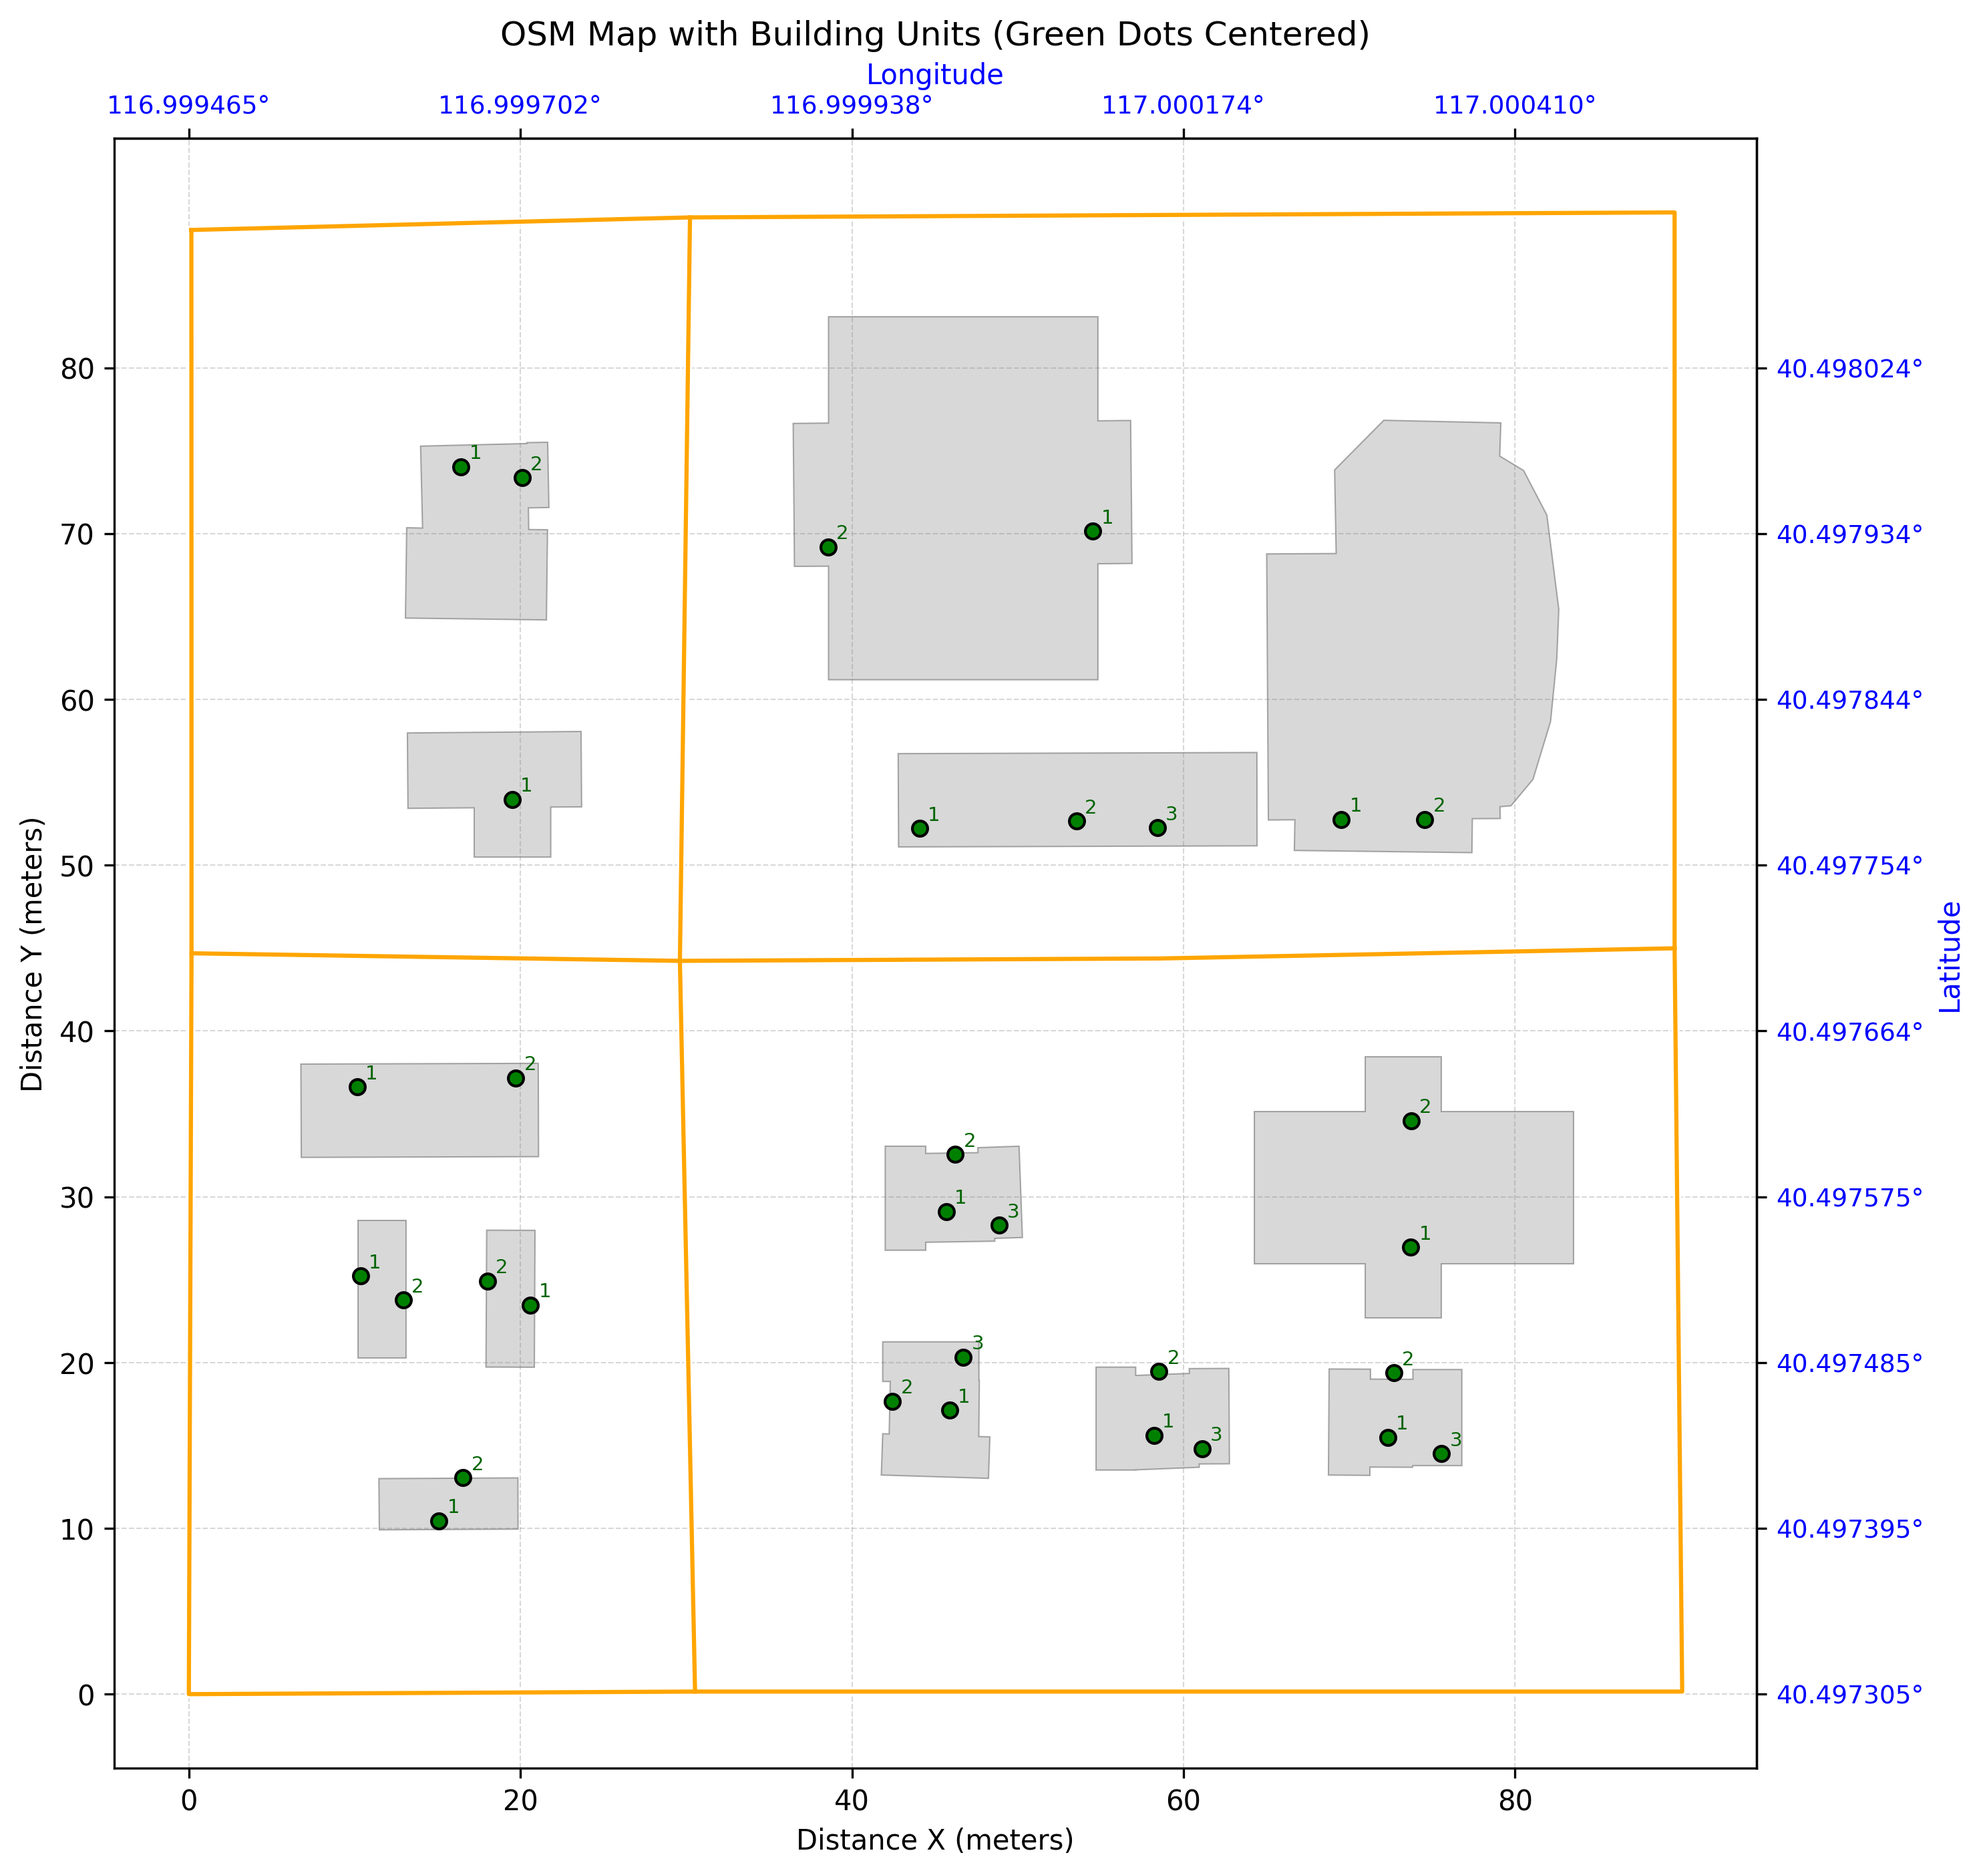
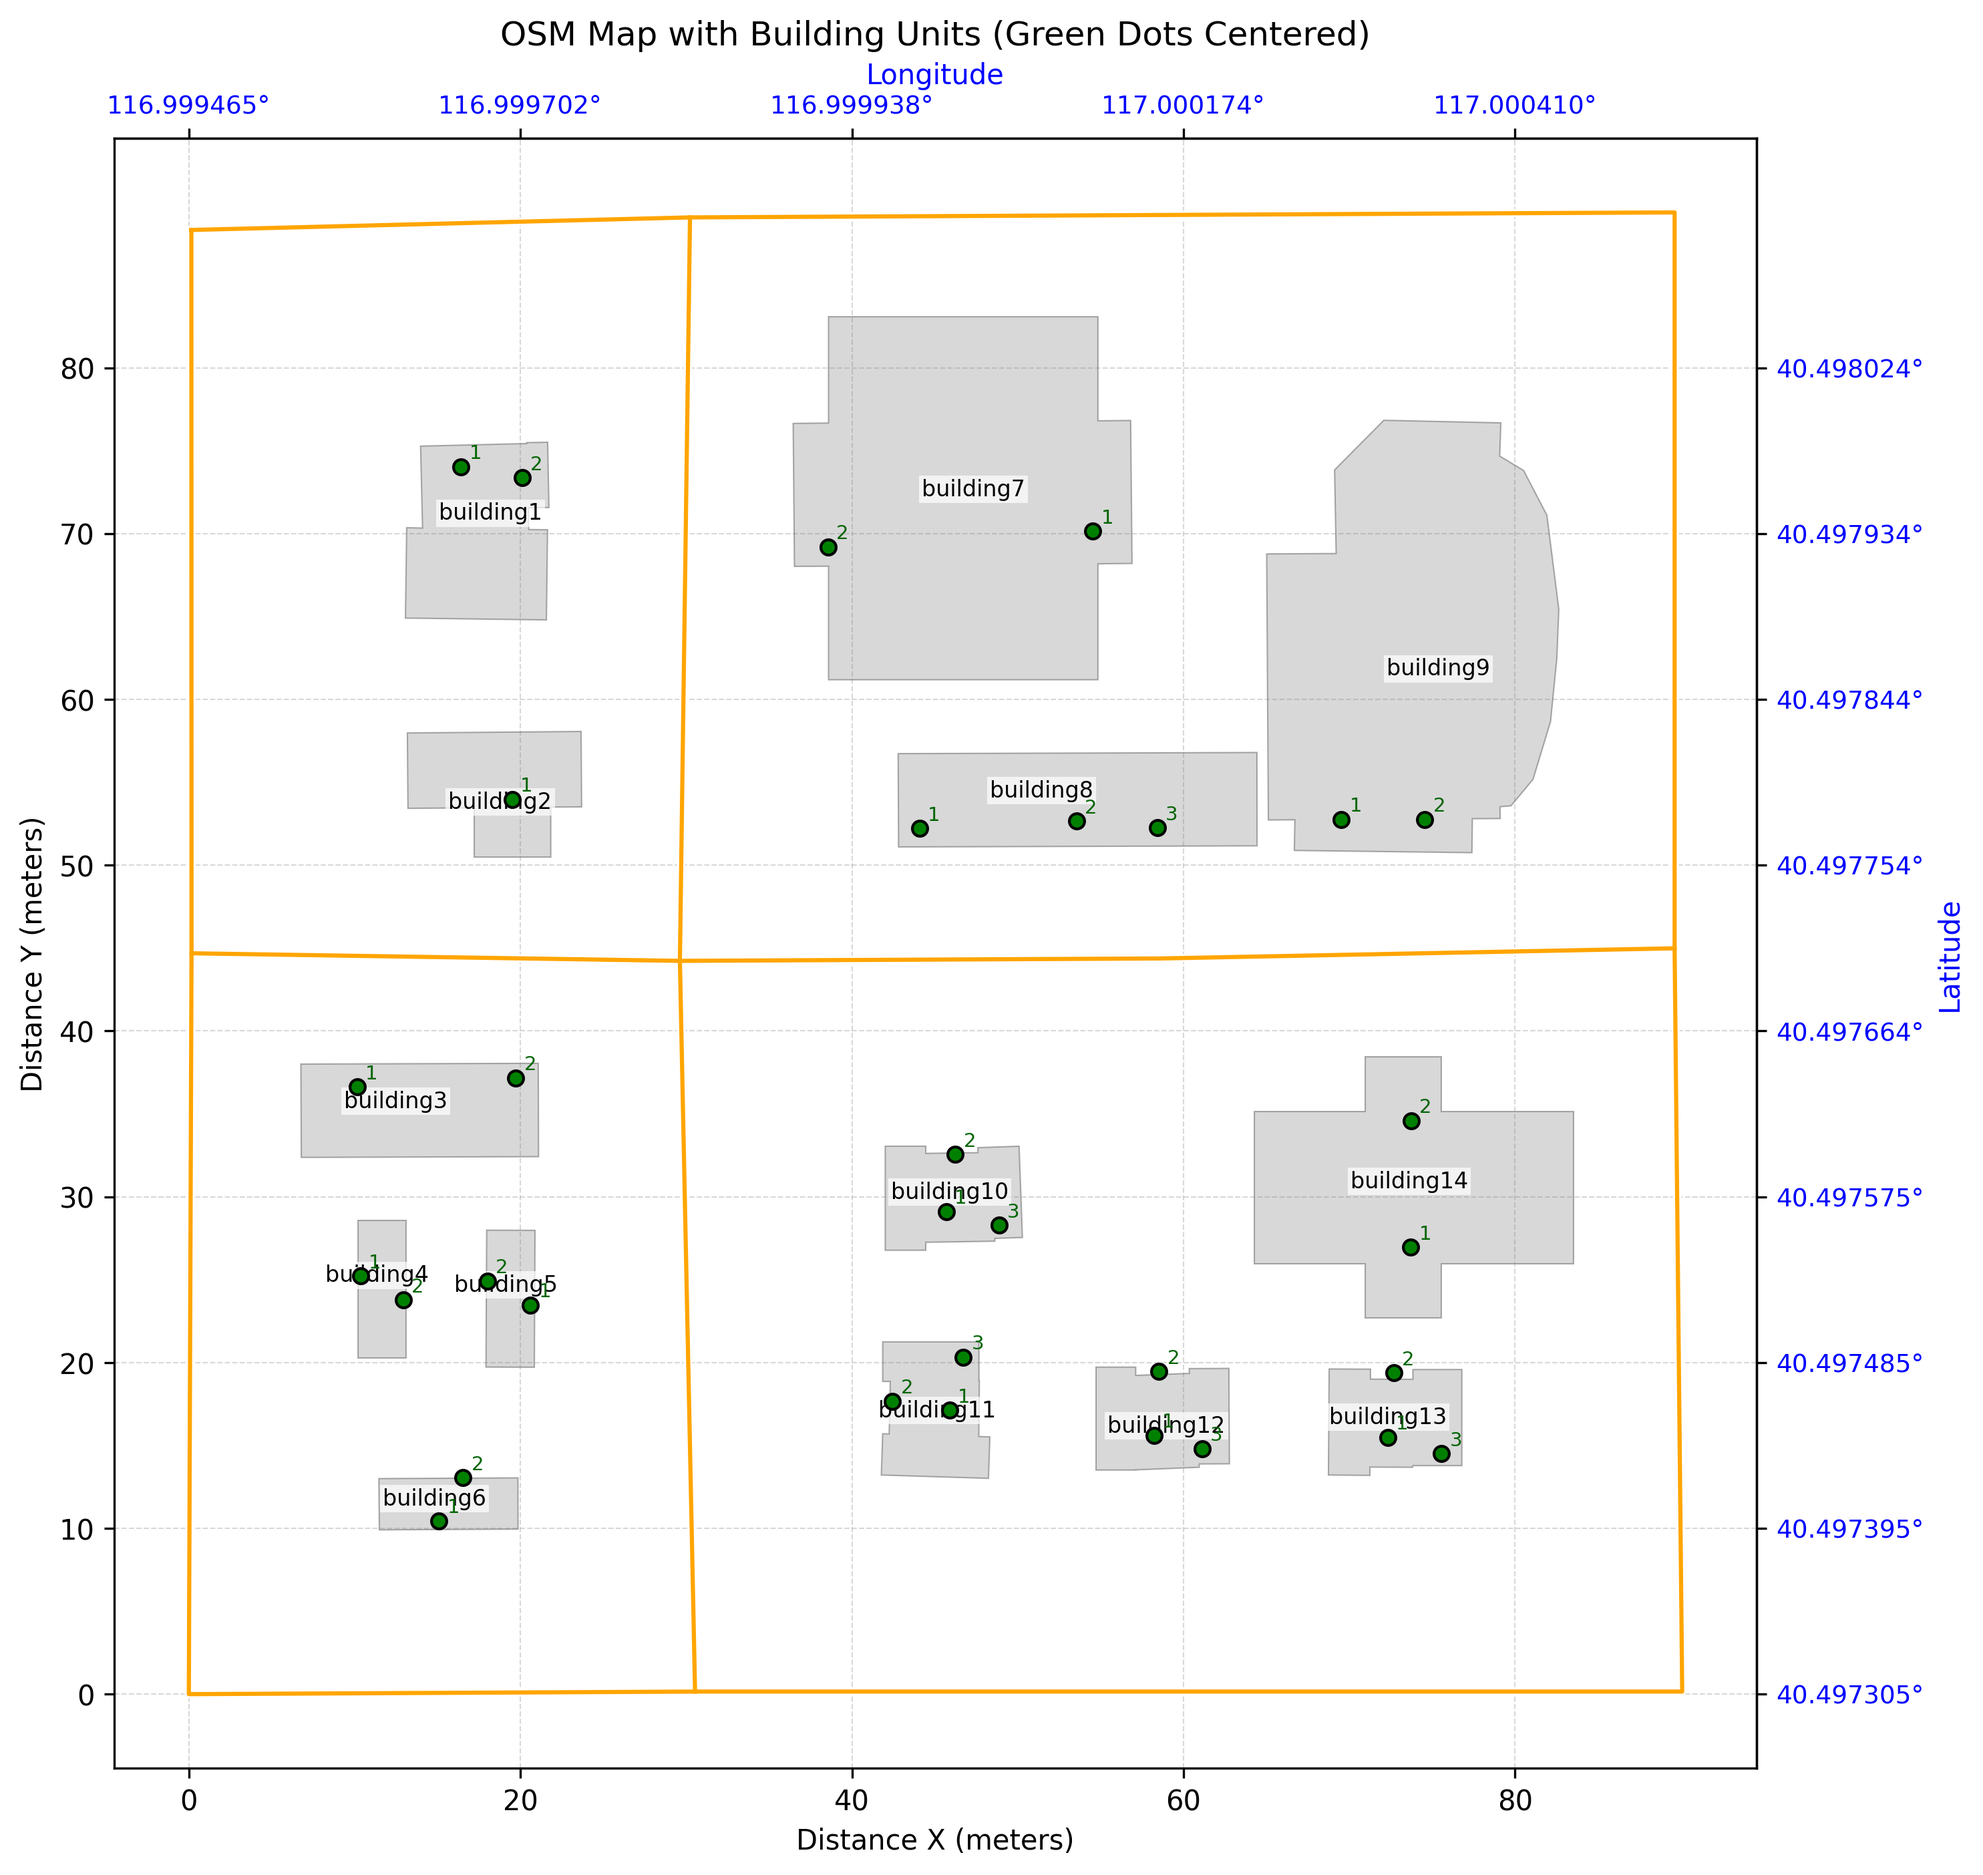
0411-小修复medium地图

diff --git a/src/utils_pkg/resource/osm/script/osm_to_image.py b/src/utils_pkg/resource/osm/script/osm_to_image.py
@@ -129,6 +129,7 @@ building_units_coords = {
 fig, ax = plt.subplots(figsize=(10, 10))
 
 # --- 绘制建筑 ---
+buildings = []
 for way in root.findall('way'):
     tags = {t.get('k'): t.get('v') for t in way.findall('tag')}
     if tags.get('building') != 'yes':
@@ -139,6 +140,25 @@ for way in root.findall('way'):
     xs = [p[0] for p in pts]
     ys = [p[1] for p in pts]
     ax.fill(xs, ys, color='gray', alpha=0.3, edgecolor='black', linewidth=0.5)
+    center_x_poly = sum(xs) / len(xs)
+    center_y_poly = sum(ys) / len(ys)
+    building_name = tags.get('name', '')
+    buildings.append((building_name, center_y_poly, center_x_poly, center_y_poly))
+
+buildings.sort(key=lambda item: item[0])
+
+for building_name, _, center_x_poly, center_y_poly in buildings:
+    ax.text(
+        center_x_poly,
+        center_y_poly,
+        building_name,
+        fontsize=8,
+        color='black',
+        ha='center',
+        va='center',
+        zorder=20,
+        bbox=dict(facecolor='white', alpha=0.7, edgecolor='none', pad=1.0),
+    )
 
 # --- 绘制道路 ---
 for way in root.findall('way'):

diff --git a/src/delivery_executor/delivery_executor/delivery_executor_action_client.py b/src/delivery_executor/delivery_executor/delivery_executor_action_client.py
@@ -164,7 +164,7 @@ def main():
         rclpy.init()
         
         action_client = DeliveryExecutorActionClient()
-        action_client.send_goal("Please deliver this apple to unit 1 of building 1")
+        action_client.send_goal("Please deliver this apple to unit 2 of building 14")
         
         rclpy.spin(action_client)
         

diff --git a/README.md b/README.md
@@ -29,7 +29,8 @@ bash sh/osrm_bringup.sh
 bash sh/osrm_test.sh
 bash sh/osrm_test1.sh
 # ------------------可视化---------------------
-python3 src/utils_pkg/resource/osm/osm_to_image_points.py
+cd src/utils_pkg/resource/osm/script/
+python3 osm_to_image.py
 ```
 
 ### 4. 启动快递系统
